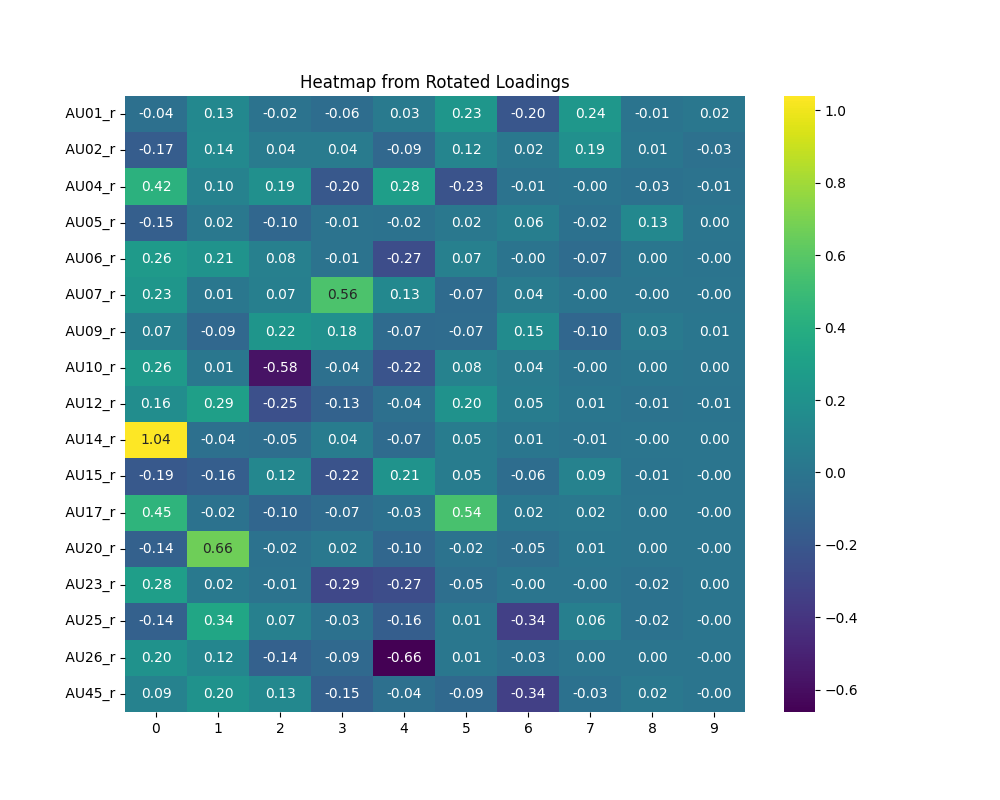
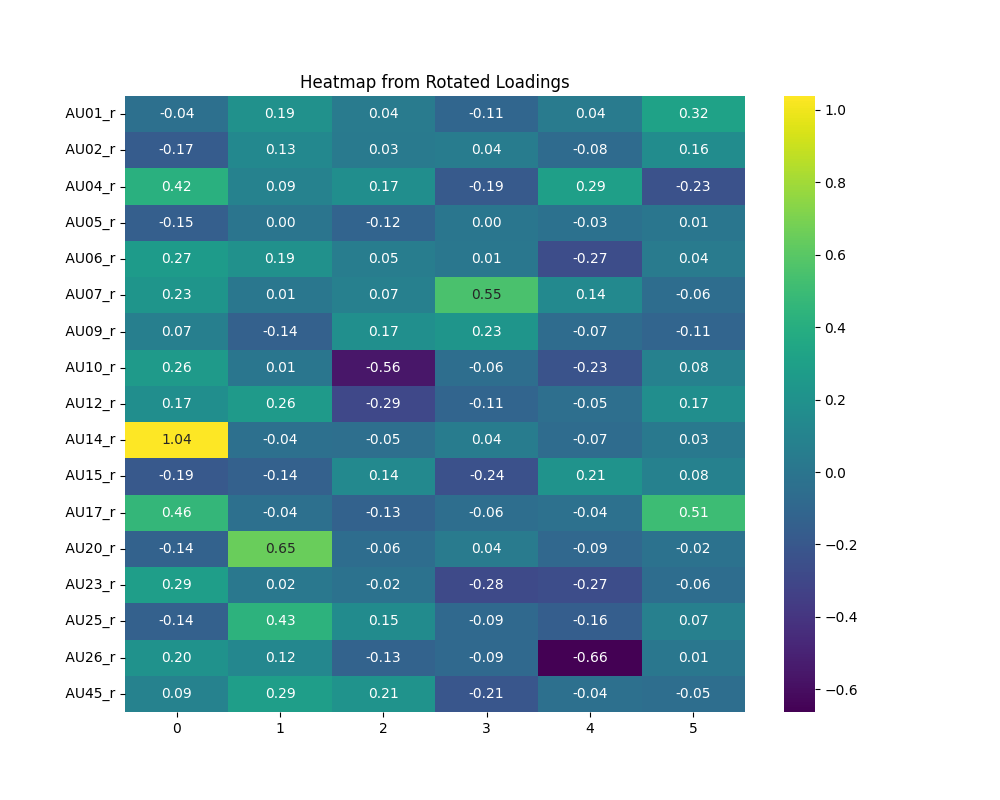
Added Thresholding and annotations

Changed region(s): [[0.155, 0.0938, 0.744, 0.9062], [0.837, 0.75, 0.868, 0.7812]]

diff --git a/helper.py b/helper.py
@@ -179,5 +179,63 @@ def plotGaussianCurve(data_map, au):
     # Display the plot
     plt.show()
     
-        
+def getRowsWithExtremeValues(rotated_loadings, columns, threshold=0.5):
+    extreme_rows = []
+    for i, row in enumerate(rotated_loadings):
+        extreme_values = [(val, idx) for idx, val in enumerate(row) if val > threshold or val < -threshold]
+        if extreme_values:
+            print(f"{columns[i]} : ",end="")
+            for val, idx in extreme_values:
+                print(f"{val:.2f}",end=', ')
+            print()
+            extreme_rows.append(columns[i])
+
+    return extreme_rows
+
+def plotHeatMapWithRowAnnotations(rotated_loadings, columns, emotion, dataset_flag, dataset, threshold=0.5):
+    '''
+    Plots the heatmap of the rotated loadings and annotates rows with values greater than the threshold or less than -threshold.
+    
+    Parameters:
+    - rotated_loadings: The matrix of rotated loadings (numpy array).
+    - columns: The row names (typically the Action Units).
+    - emotion: The emotion for which the heatmap is plotted.
+    - dataset_flag: Indicates the type of dataset for labeling.
+    - dataset: The dataset name (used for saving the plot).
+    - threshold: The threshold to consider for extreme values (default is 0.5).
+    '''
+    results_dir = 'results'
+    if dataset not in os.listdir(results_dir):
+        os.mkdir(f'results/{dataset}')
+
+    # Create the heatmap
+    plt.figure(figsize=(12, 8))  # Adjusted size to make room for text annotations
+    sns.heatmap(
+        rotated_loadings, 
+        annot=True, 
+        fmt=".2f", 
+        cmap='viridis', 
+        cbar=True, 
+        linecolor='gray', 
+        yticklabels=columns
+    )
+    
+    # Find rows that have values greater than the threshold or less than -threshold
+    annotated_rows = []
+    for i, row in enumerate(rotated_loadings):
+        if np.any(row > threshold) or np.any(row < -threshold):
+            annotated_rows.append(columns[i])
+    
+    # Add the annotated rows to the right of the heatmap
+    plt.text(len(rotated_loadings[0]) + 1, 0.5,  # Position the text to the right of the heatmap
+             '\n'.join(annotated_rows),  # List rows from top to bottom
+             fontsize=12, va='top', ha='left')
+
+    plt.title(f'Heatmap with Row Annotations ({emotion})')
+    
+    # Save the plot with the annotated rows
+    plt.savefig(f'results/{dataset}/heatmap_{emotion}_{dataset_flag}_annotated.png', bbox_inches='tight')
+    # plt.show()
+
+
     

diff --git a/gppca_single_emotions.py b/gppca_single_emotions.py
@@ -14,10 +14,12 @@ def main():
     radboud = pd.read_csv("au_dataset/results_radboud.csv")
 
     # Preprocessing the data
-    emotions = ["ANG","SAD","FER","SUR"]
+    emotions = ["ANG","SAD","FER","SUR",'HPY']
     allData = {"ckplus":ckplus,"iim":iim,"jaffe":jaffe,"nimstim":nimstim,"radboud":radboud} ### Need to parameter to fiddle this, maybe add or delete few datasets
-
+    threshold=0.25
+    varianceExplained=0.95
     for emotion in emotions:
+        extreme_rows_per_dataset={}
         for key in allData.keys():
             print(f"Emotion: {emotion} Dataset: {key}")
             df = allData[key]
@@ -28,9 +30,17 @@ def main():
 
             gppcaFeader = {'data1' : filtered_df1.to_numpy(),'data2' : filtered_df2.to_numpy()}
             w,v = GeneralizedPPCA(gppcaFeader)
-            loadings = getLoadings(w,v,1) # getLoadings(w,v,variance_explained)
+            loadings = getLoadings(w,v,varianceExplained) # getLoadings(w,v,variance_explained)
             rotated_loadings, _ = rotate_factors(loadings.T, 'varimax')
             plotHeatMap(rotated_loadings,ckplus.columns[:-1],emotion,'single',key)
+            extreme_rows = getRowsWithExtremeValues(rotated_loadings, ckplus.columns[:-1], threshold)
+            extreme_rows_per_dataset[key] = set(extreme_rows)
+
+            plotHeatMapWithRowAnnotations(rotated_loadings, ckplus.columns[:-1], emotion, 'single', key, threshold)
+
+        # Find common extreme rows across all datasets for this emotion
+        common_extreme_rows = set.intersection(*extreme_rows_per_dataset.values())
+        print(f"Common extreme rows for emotion {emotion}: {common_extreme_rows}")
 
 
 if __name__ == "__main__":

diff --git a/gppca_all_emotions.py b/gppca_all_emotions.py
@@ -45,19 +45,22 @@ def main():
     # print([x for x in allData["ckplus"]['filename'].str.endswith("ANG.csv") if x==True])
 
     preprocessedData = preprocess_data(allData,emotions)
-
+    threshold=0.5
+    varianceExplained=0.95
     # Applying Generalized PPCA and plot data
     for emotion in emotions:
         print(f"Emotion: {emotion}")
         all_data = preprocessedData[emotion]
 
-        print(all_data['ckplus'].shape)
+        # print(all_data['ckplus'].shape)
         w,v = GeneralizedPPCA(all_data)
-        loadings = getLoadings(w,v)
+        loadings = getLoadings(w,v,varianceExplained)
         rotated_loadings, _ = rotate_factors(loadings.T, 'varimax')
     
-        print(rotated_loadings.shape)
-        plotHeatMap(rotated_loadings,ckplus.columns[:-1],emotion,'all')
+        # print(rotated_loadings.shape)
+        plotHeatMap(rotated_loadings,ckplus.columns[:-1],emotion,'all','all')
+        getRowsWithExtremeValues(rotated_loadings, ckplus.columns[:-1], threshold)
+        plotHeatMapWithRowAnnotations(rotated_loadings, ckplus.columns[:-1], emotion, 'single', 'all', threshold)
 
         
 if __name__ == "__main__":
